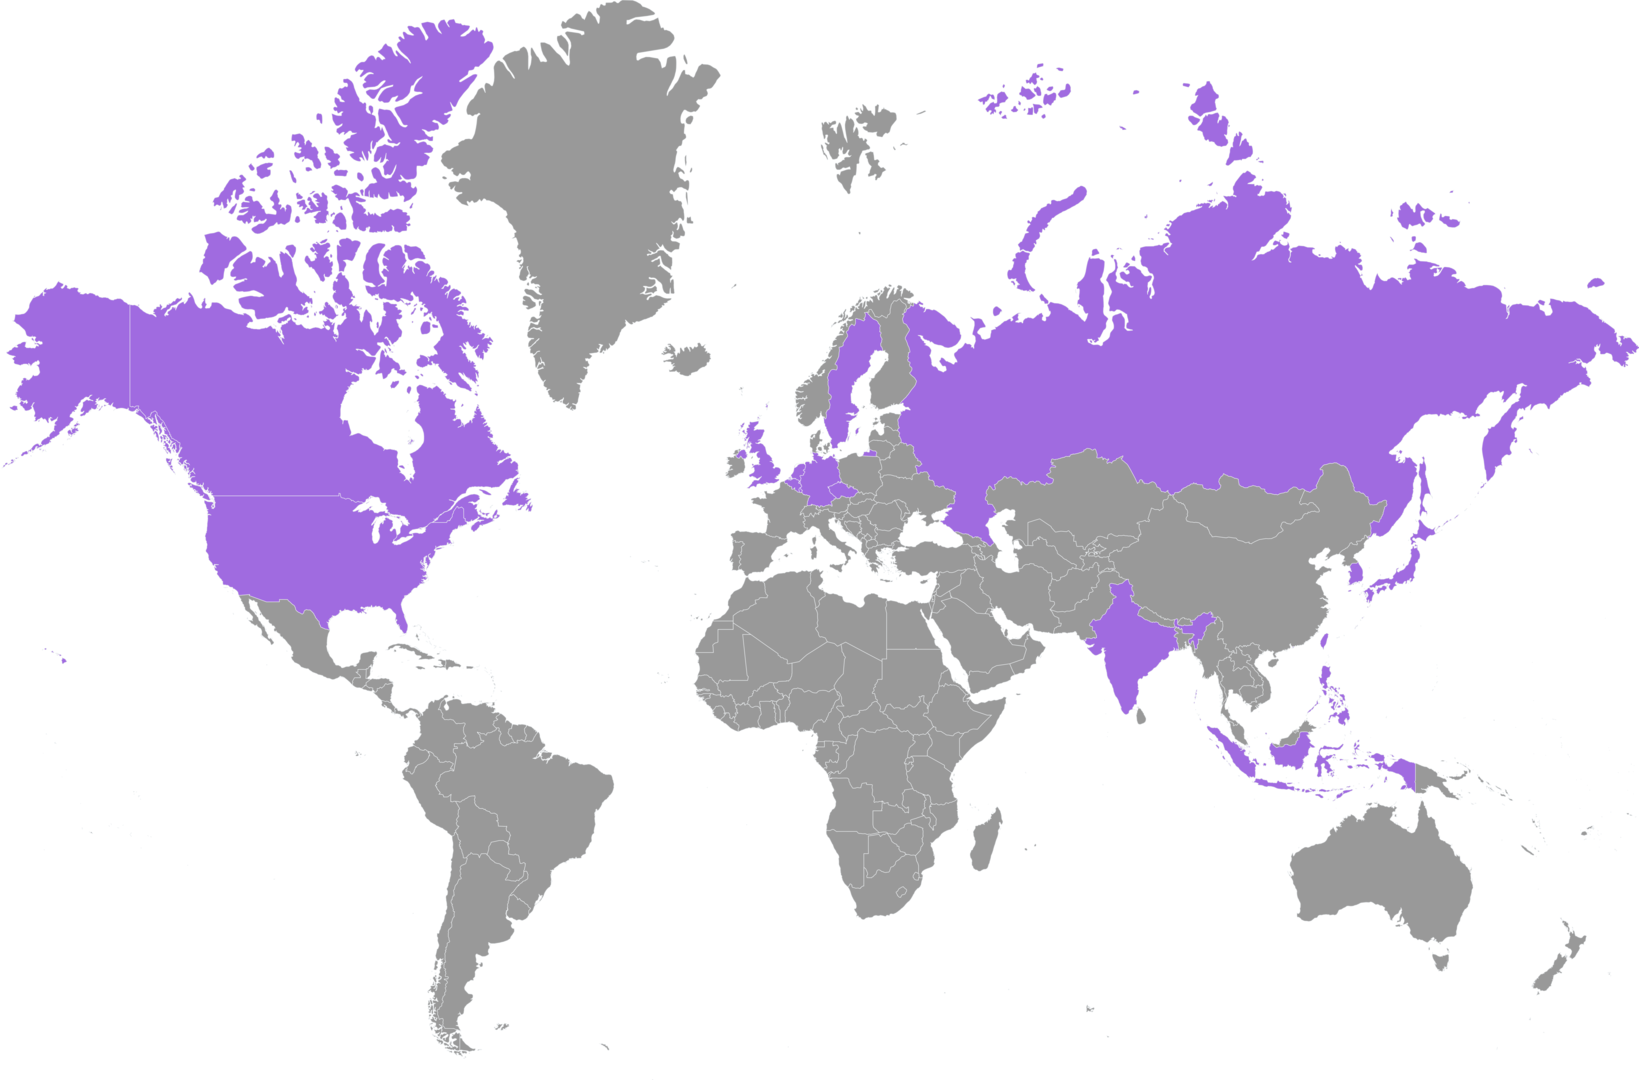
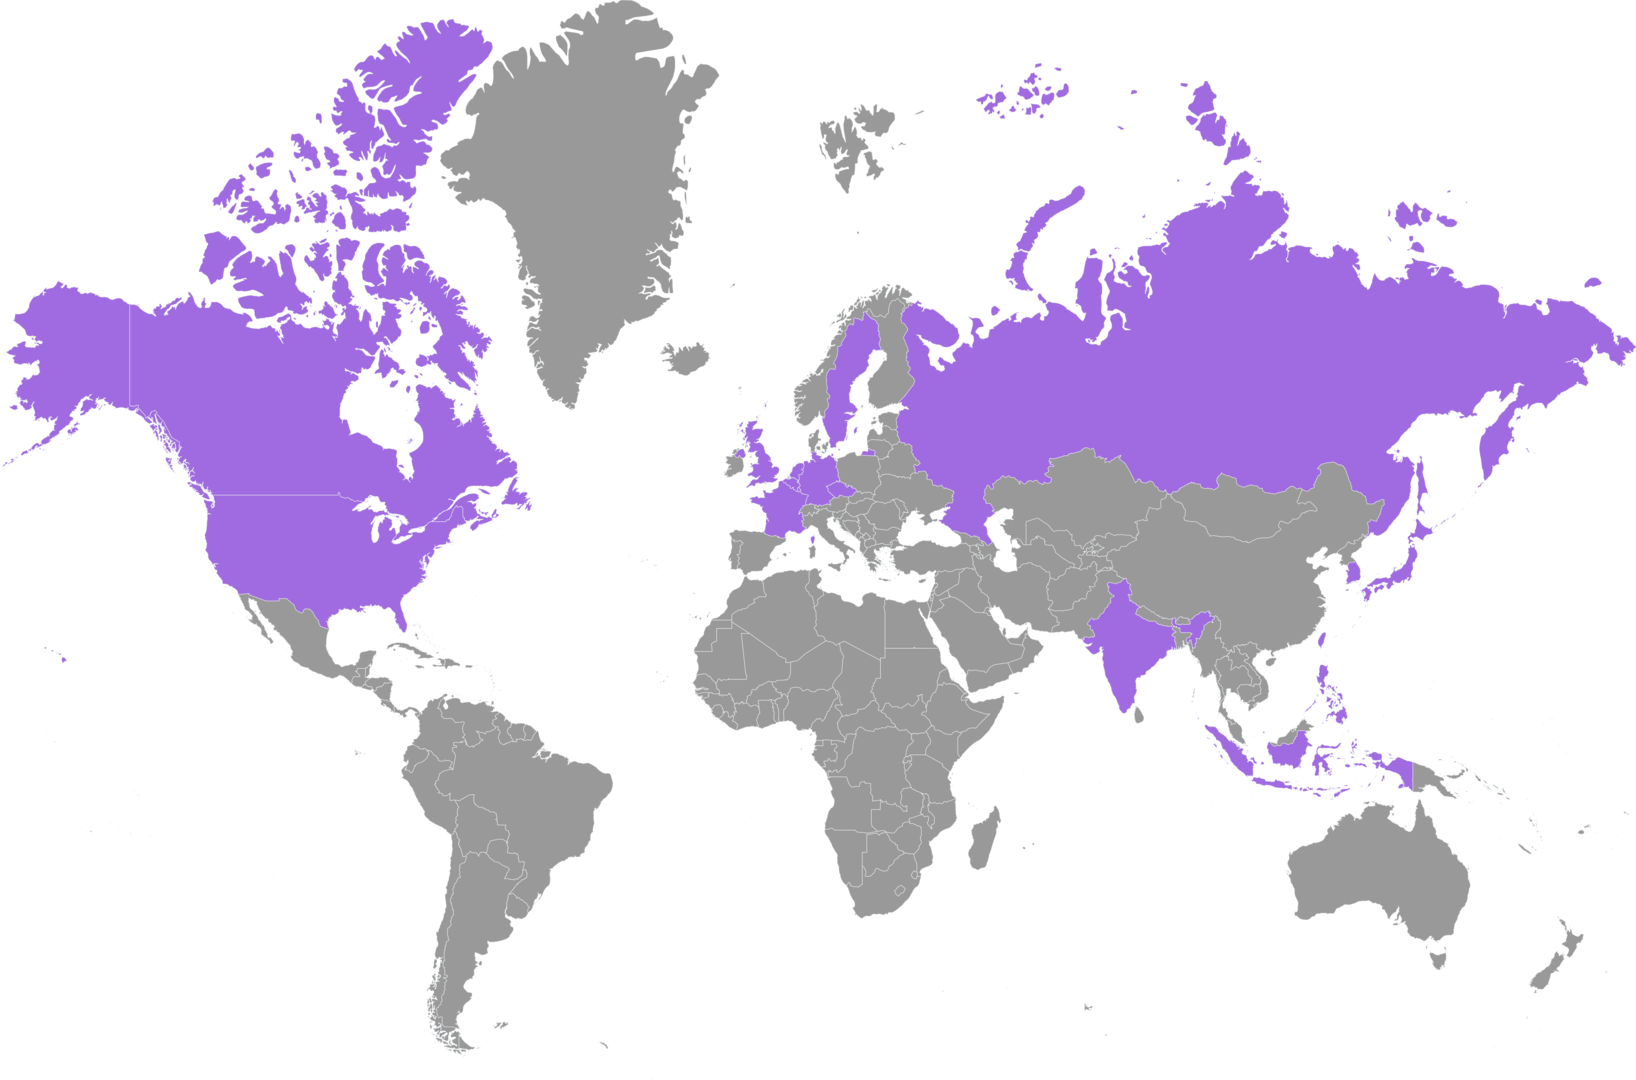
travel

diff --git a/blog/index.md b/blog/index.md
@@ -51,7 +51,8 @@ _12014—12018_ National Taiwan University — programming, machine learning, bu
 - Belgium — 12019-10
 - Canada — 12019-04
 - Czechia — 12019-12
-- England — _12009—12011_, 12019-10, 12020-02
+- England — _12009—12011_, 12019-10, 12020-02, 12021-11
+- France — 12021-11
 - Germany — 12019-12
 - Hong Kong — 12017-08
 - India — 12015-08
